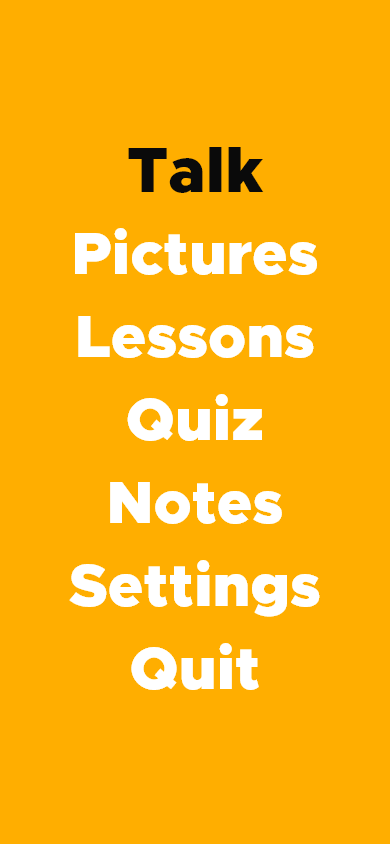
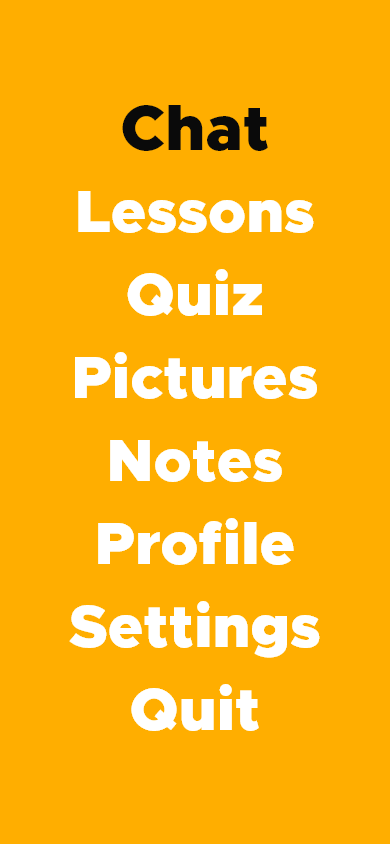
feat(screenshots): chat, lessons, quiz, profile goldens

Changed region(s): [[0.1846, 0.1232, 0.8308, 0.8626]]

diff --git a/tool/screenshots_test.dart b/tool/screenshots_test.dart
@@ -15,7 +15,11 @@ import 'package:resonant/features/touch/data/http_touch_repository.dart';
 import 'package:resonant/features/touch/data/touch_repository.dart';
 import 'package:resonant/features/touch/domain/region.dart';
 import 'package:resonant/features/touch/gestures/gesture_types.dart';
+import 'package:resonant/features/touch/presentation/chat_screen.dart';
 import 'package:resonant/features/touch/presentation/home_screen.dart';
+import 'package:resonant/features/touch/presentation/lessons_screen.dart';
+import 'package:resonant/features/touch/presentation/profile_screen.dart';
+import 'package:resonant/features/touch/presentation/quiz_browser_screen.dart';
 import 'package:resonant/features/touch/presentation/study_notes_screen.dart';
 import 'package:resonant/features/touch/presentation/touch_screen.dart';
 
@@ -167,6 +171,50 @@ void main() {
     await expectLater(
       find.byType(HomeScreen),
       matchesGoldenFile('../docs/screenshots/06-theme-low-vision.png'),
+    );
+  });
+
+  Future<void> openFromHome(WidgetTester tester, String label) async {
+    await pumpApp(tester);
+    await tester.tap(find.text(label));
+    await tester.pump(const Duration(milliseconds: 500));
+    await tester.pump(const Duration(milliseconds: 500));
+    await tester.pump(const Duration(milliseconds: 500));
+  }
+
+  testWidgets('chat screenshot', (tester) async {
+    await openFromHome(tester, 'Chat');
+    expect(find.byType(ChatScreen), findsOneWidget);
+    await expectLater(
+      find.byType(ChatScreen),
+      matchesGoldenFile('../docs/screenshots/07-chat.png'),
+    );
+  });
+
+  testWidgets('lessons screenshot', (tester) async {
+    await openFromHome(tester, 'Lessons');
+    expect(find.byType(LessonsScreen), findsOneWidget);
+    await expectLater(
+      find.byType(LessonsScreen),
+      matchesGoldenFile('../docs/screenshots/08-lessons.png'),
+    );
+  });
+
+  testWidgets('quiz browser screenshot', (tester) async {
+    await openFromHome(tester, 'Quiz');
+    expect(find.byType(QuizBrowserScreen), findsOneWidget);
+    await expectLater(
+      find.byType(QuizBrowserScreen),
+      matchesGoldenFile('../docs/screenshots/09-quiz.png'),
+    );
+  });
+
+  testWidgets('profile screenshot', (tester) async {
+    await openFromHome(tester, 'Profile');
+    expect(find.byType(ProfileScreen), findsOneWidget);
+    await expectLater(
+      find.byType(ProfileScreen),
+      matchesGoldenFile('../docs/screenshots/10-profile.png'),
     );
   });
 }
